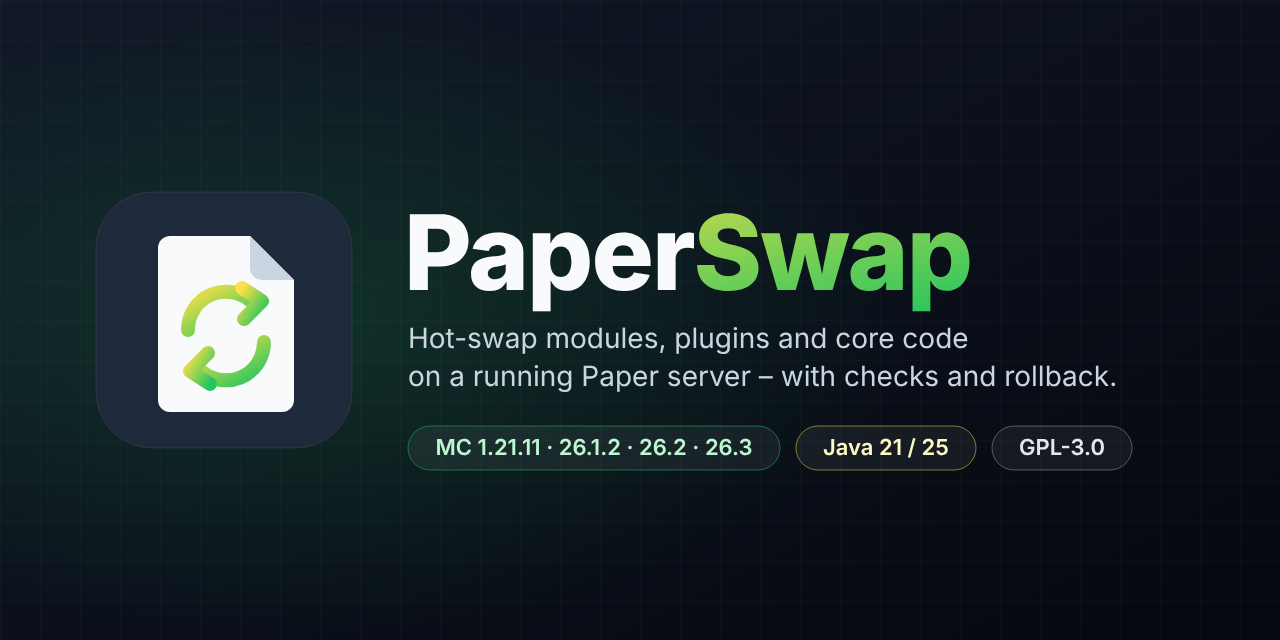
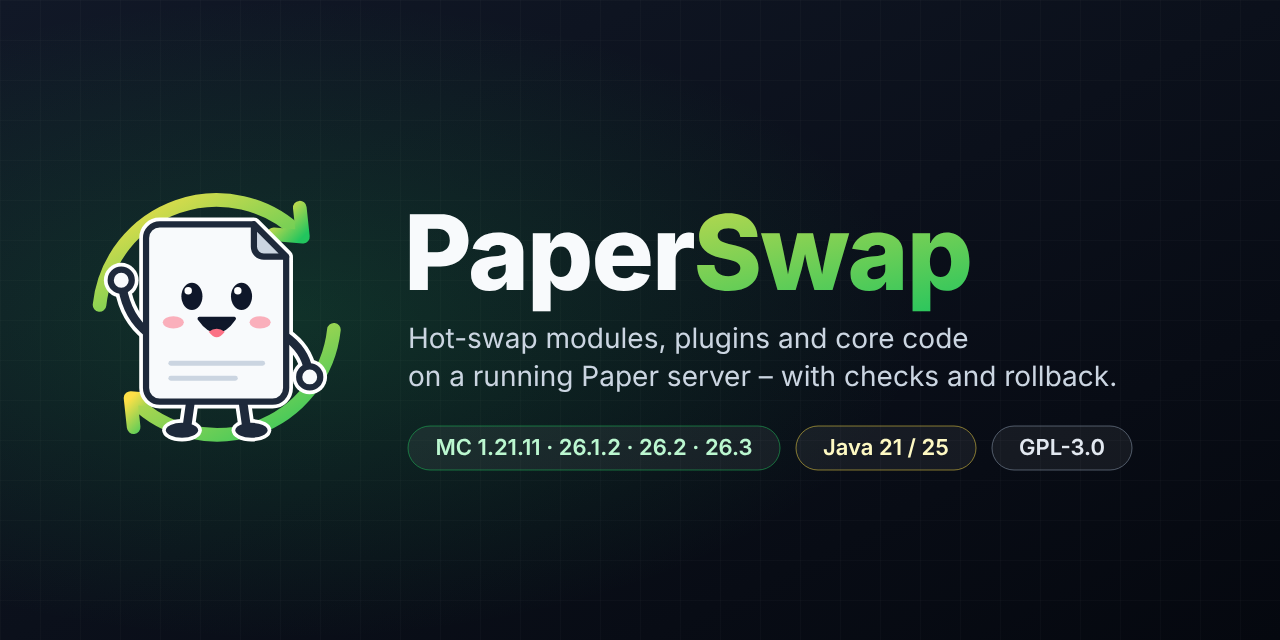
Swappie, the PaperSwap mascot
- assets/swappie.svg: a cheerful sheet of paper between two swap arrows, waving;
  white sticker outline so it also works on dark backgrounds (checked rendered
  on light and dark, at 420 px and 96 px).
- Banner and social preview now show Swappie instead of the app icon.
- README (EN/DE): "Meet Swappie" section; changelog entry.

Claude-Session: https://claude.ai/code/session_011AE8vcWGraMQgEFbX1aufa

Changed region(s): [[0.0625, 0.2812, 0.2812, 0.7188]]

diff --git a/README.de.md b/README.de.md
@@ -24,6 +24,14 @@ nicht, sagt PaperSwap das und verlangt einen Neustart, statt Erfolg vorzutäusch
 Ohne Konfiguration ist es einfach Paper: Die Runtime ist **standardmäßig aus**, öffnet **keinen
 Netzwerkport** und tut nichts, bis du sie einschaltest.
 
+<img align="right" src="assets/swappie.svg" width="150" alt="Swappie, das PaperSwap-Maskottchen">
+
+### Das ist Swappie
+
+**Swappie** ist unser Maskottchen: ein Blatt Papier zwischen zwei Tausch-Pfeilen – genau wie der
+Code auf deinem Server. Swappie tauscht für sein Leben gern, prüft aber immer vorher und hält die
+alte Version griffbereit.
+
 ## Highlights
 
 - 🔁 **Module im laufenden Betrieb tauschen** – Erweiterungen laden, aktivieren, ersetzen und
@@ -223,7 +231,7 @@ scripts/fork/       Generatoren für Versionsprojekte und Patches
 scripts/livepatch/  Gradle-Tasks für Core-Patches (in jeden Server-Build eingebunden)
 scripts/ci/         Live-Server-Tests und CI-Hilfen
 docs/               Dokumentation
-assets/             Logo, Banner, Social-Preview
+assets/             Logo, Maskottchen Swappie, Banner, Social-Preview
 index.html, index.zip   Website-Dateien des LemonPvP-Servers (nicht Teil der Fork)
 ```
 

diff --git a/README.md b/README.md
@@ -24,6 +24,13 @@ can't, PaperSwap says so and tells you to restart instead of pretending.
 Out of the box it is plain Paper: the runtime is **off by default**, opens **no network port** and
 does nothing until you switch it on.
 
+<img align="right" src="assets/swappie.svg" width="150" alt="Swappie, the PaperSwap mascot">
+
+### Meet Swappie
+
+**Swappie** is our mascot: a sheet of paper caught between two swap arrows – just like the code on
+your server. Swappie loves swapping, but always checks first and keeps the old version at hand.
+
 ## Highlights
 
 - 🔁 **Hot-swappable modules** – load, enable, replace and unload extensions at runtime, each in its
@@ -219,7 +226,7 @@ scripts/fork/       generators for version projects and patches
 scripts/livepatch/  Gradle tasks for core patches (included in every server build)
 scripts/ci/         live server tests and CI helpers
 docs/               documentation
-assets/             logo, banner, social preview
+assets/             logo, Swappie mascot, banner, social preview
 index.html, index.zip   website files of the LemonPvP server (not part of the fork)
 ```
 

diff --git a/CHANGELOG.md b/CHANGELOG.md
@@ -17,9 +17,9 @@ everything below is unreleased and can be built from source or taken from CI art
   descriptors are still recognised, and a server started with the old agent JAR is detected.
   Modules must be rebuilt against the new API package; permissions must be renamed.
   See [`docs/MIGRATION.md`](docs/MIGRATION.md).
-- Open-source repository setup: English README (German: `README.de.md`), logo and banner,
-  contributing guide, code of conduct, security policy, issue and pull request templates,
-  `.editorconfig`.
+- Open-source repository setup: English README (German: `README.de.md`), logo, banner, our
+  mascot **Swappie** (`assets/swappie.svg`), contributing guide, code of conduct, security
+  policy, issue and pull request templates, `.editorconfig`.
 
 ### Added
 
